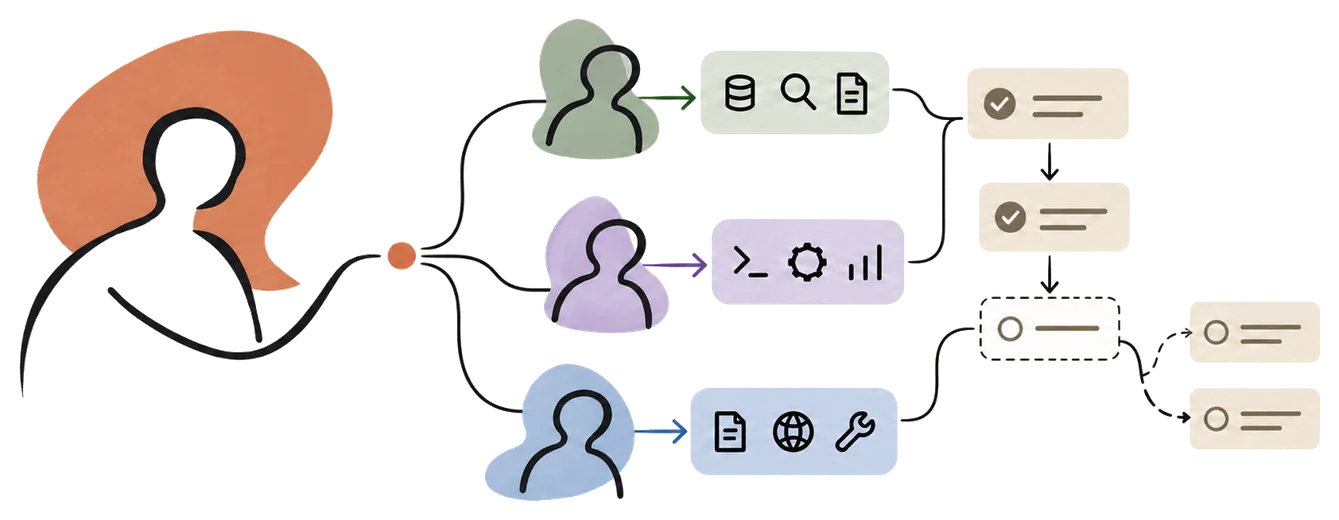
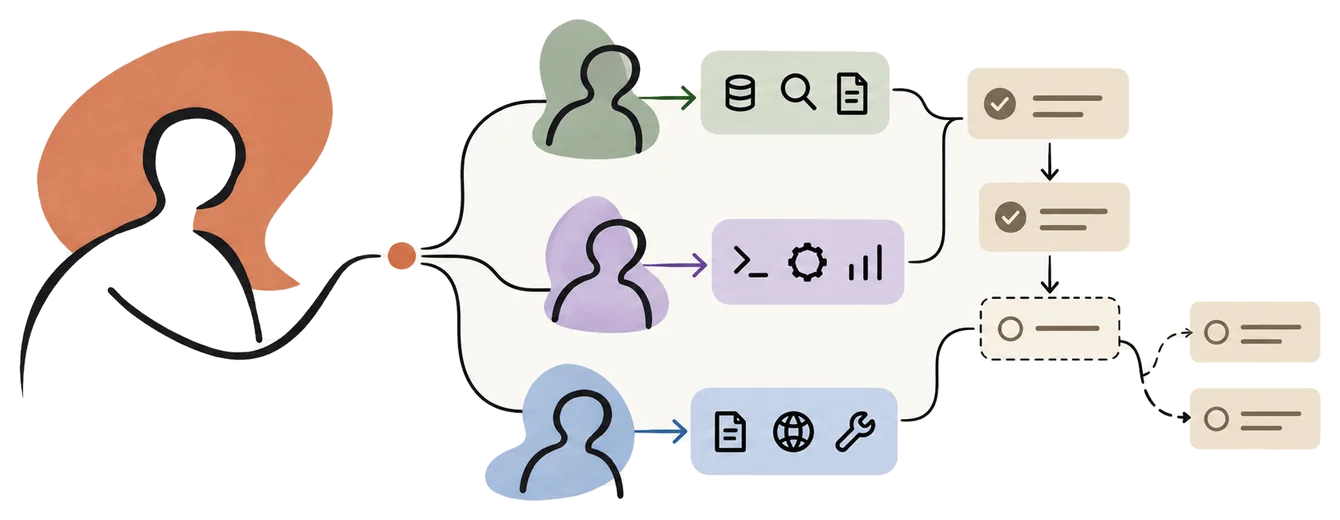
Tab 1: the domain images made again from the originals by make-dark-heroes.py: the light copies keep the pale parts of domains 1 and 5, and the dark copies keep their white boxes solid (owner, 15 October 2026). check-pages prints All checks passed for tab 1
Claude-Session: https://claude.ai/code/session_01UTkgDqrwTLkESy2KzoY348

diff --git a/academy/build/make-dark-heroes.py b/academy/build/make-dark-heroes.py
@@ -1,34 +1,60 @@
-"""Makes the dark-mode copies of the domain images (owner, 15 October 2026): the background outside the drawing becomes
-transparent, and the dark outlines next to it become the cream colour of the text. Run from the root of the repository."""
+"""Makes the web copies of the domain images from the originals of the owner (15 October 2026). Run from the root of the repository.
+
+The background outside the drawing becomes transparent. The outside is the cream background that touches the edge of the image.
+For the light copy, small gaps, such as the gaps of a dashed border, are closed first, so that the inside of a box keeps its fill.
+The dark copy closes no gap, because an area between lines that keeps the cream background shows on the dark page. Each copy is cut to
+the drawing and is 520 pixels high. The dark copy (domain-N-dark.webp) also turns the dark outlines next to the outside into the
+cream colour of the text, for dark mode."""
 from PIL import Image, ImageDraw, ImageFilter
 import numpy as np, os
+
 CREAM = np.array([244, 242, 239], dtype=np.float32)
+GAP = 17   # pixels: a gap narrower than this, such as in a dashed border, does not let the outside in
+# boxes whose white fill is almost the colour of the background: they stay solid in the dark copy (original pixels, x0 y0 x1 y1)
+SOLID = {1: [(1300, 478, 1482, 562)],    # the dashed box of the open step
+         5: [(1176, 526, 1344, 642)]}    # the card "Confidence"
+
+
+def outside_of(a, gap):
+    bg = np.median(np.concatenate([a[:8].reshape(-1, 3), a[-8:].reshape(-1, 3)]), axis=0)
+    near = ((np.abs(a - bg).max(axis=2)) < 14).astype(np.uint8) * 255
+    shrunk = (Image.fromarray(near).filter(ImageFilter.MinFilter(gap)) if gap > 1 else Image.fromarray(near)).copy()   # close the small gaps
+    for xy in [(0, 0), (shrunk.width - 1, 0), (0, shrunk.height - 1), (shrunk.width - 1, shrunk.height - 1)]:
+        if shrunk.getpixel(xy) == 255:
+            ImageDraw.floodfill(shrunk, xy, 128, thresh=0)
+    flooded = (np.array(shrunk) == 128).astype(np.uint8) * 255
+    grown = (np.array(Image.fromarray(flooded).filter(ImageFilter.MaxFilter(gap))) if gap > 1 else flooded) > 0
+    return grown & (near > 0)
+
+
 for i in range(1, 6):
     im = Image.open("academy/pages/images/domains/originals/domain-%d-hero.png" % i).convert("RGB")
     a = np.asarray(im).astype(np.float32)
-    bg = np.median(np.concatenate([a[:8].reshape(-1, 3), a[-8:].reshape(-1, 3)]), axis=0)
-    near = ((np.abs(a - bg).max(axis=2)) < 14).astype(np.uint8) * 255
-    m = Image.fromarray(near).copy()
-    for xy in [(0, 0), (m.width - 1, 0), (0, m.height - 1), (m.width - 1, m.height - 1)]:
-        if m.getpixel(xy) == 255:
-            ImageDraw.floodfill(m, xy, 128, thresh=0)
-    outside = np.array(m) == 128
+    outside = outside_of(a, GAP)
     alpha = np.array(Image.fromarray(np.where(outside, 0, 255).astype(np.uint8)).filter(ImageFilter.GaussianBlur(0.8))).astype(np.float32)
-    mx, mn = a.max(axis=2), a.min(axis=2)
-    light = (mx + mn) / 2 / 255
-    sat = (mx - mn) / 255
-    dark = (light < 0.5) & (sat < 0.3)
-    near_out = np.array(Image.fromarray(outside.astype(np.uint8) * 255).filter(ImageFilter.MaxFilter(9))) > 0
-    recolor = dark & near_out
-    w = np.clip((0.55 - light) / 0.55, 0, 1)[..., None]
-    out = a.copy()
-    out[recolor] = CREAM * w[recolor] + a[recolor] * (1 - w[recolor])
-    rgba = Image.fromarray(np.dstack([out, alpha]).clip(0, 255).astype(np.uint8), "RGBA")
-    light_copy = Image.open("academy/pages/images/domains/domain-%d.webp" % i)
     box = Image.fromarray((~outside).astype(np.uint8) * 255).getbbox()
     pad = 24
     box = (max(0, box[0] - pad), max(0, box[1] - pad), min(im.width, box[2] + pad), min(im.height, box[3] + pad))
-    rgba = rgba.crop(box).resize(light_copy.size, Image.LANCZOS)
-    p = "academy/pages/images/domains/domain-%d-dark.webp" % i
-    rgba.save(p, "WEBP", quality=85, method=6)
-    print(p, rgba.size, os.path.getsize(p) // 1024, "KB", Image.open(p).mode)
+    h = 520
+    size = (round((box[2] - box[0]) * h / (box[3] - box[1])), h)
+    # the light copy: the colours of the original
+    light = Image.fromarray(np.dstack([a, alpha]).clip(0, 255).astype(np.uint8), "RGBA").crop(box).resize(size, Image.LANCZOS)
+    light.save("academy/pages/images/domains/domain-%d.webp" % i, "WEBP", quality=85, method=6)
+    # the dark copy: no gap is closed, so no area between lines keeps the cream background (it would show on the dark page);
+    # specks of one or two pixels in the outside are removed; dark outlines next to the outside become cream
+    outside = outside_of(a, 1)
+    for x0, y0, x1, y1 in SOLID.get(i, []):
+        outside[y0:y1, x0:x1] = False
+    inside = Image.fromarray((~outside).astype(np.uint8) * 255).filter(ImageFilter.MinFilter(3)).filter(ImageFilter.MaxFilter(3))
+    outside = np.array(inside) == 0
+    alpha = np.array(Image.fromarray(np.where(outside, 0, 255).astype(np.uint8)).filter(ImageFilter.GaussianBlur(0.8))).astype(np.float32)
+    mx, mn = a.max(axis=2), a.min(axis=2)
+    lightness, sat = (mx + mn) / 2 / 255, (mx - mn) / 255
+    near_out = np.array(Image.fromarray(outside.astype(np.uint8) * 255).filter(ImageFilter.MaxFilter(9))) > 0
+    recolor = (lightness < 0.5) & (sat < 0.3) & near_out
+    w = np.clip((0.55 - lightness) / 0.55, 0, 1)[..., None]
+    out = a.copy()
+    out[recolor] = CREAM * w[recolor] + a[recolor] * (1 - w[recolor])
+    dark = Image.fromarray(np.dstack([out, alpha]).clip(0, 255).astype(np.uint8), "RGBA").crop(box).resize(size, Image.LANCZOS)
+    dark.save("academy/pages/images/domains/domain-%d-dark.webp" % i, "WEBP", quality=85, method=6)
+    print(i, size, os.path.getsize("academy/pages/images/domains/domain-%d.webp" % i) // 1024, "KB,", os.path.getsize("academy/pages/images/domains/domain-%d-dark.webp" % i) // 1024, "KB")

diff --git a/academy/journal.md b/academy/journal.md
@@ -26,7 +26,7 @@ One entry for each work session. Newest entry first.
 - Tab 1: each of the 15 chips "primary" in Fig. B opens one popup: the guide names 2 or 3 primary domains for each scenario but does not define the word, and the reading of this page is that the questions of the scenario come mainly from these domains (owner, 15 October 2026).
 - Tab 1, Fig. C: the five boxes that run the tools open a popup each, with what that means in practice and a link to the part that teaches it (owner, 15 October 2026).
 - Tab 1: each Overview has the heading "Overview" in the style of the Explanation and the Depth, then the answer in body size, then the title of the guide, small, as "The guide: …". Batch 2 of the notes of the owner is done (owner, 15 October 2026).
-- Tab 1: the hero image of the owner for each domain stands on top of its section, under the heading, at the size of its drawing, at most 15rem high: the web copies are cut to the drawing, 1,400 pixels wide (26 to 32 KB each, in academy/pages/images/domains/), and have no frame. The first version was full width and showed empty space. Now each image stands on the right of the summary of its domain, all at one height (8.5rem), with a transparent background. In dark mode the page shows a dark copy of each image (domain-N-dark.webp, made by academy/build/make-dark-heroes.py), in which the dark outlines next to the background are cream; the first try, white behind the image, looked bad, and on a phone above the summary, and the originals of the owner are in images/domains/originals. Each image has a text alternative, and it is a little darker in dark mode (owner, 15 October 2026).
+- Tab 1: the hero image of the owner for each domain stands on top of its section, under the heading, at the size of its drawing, at most 15rem high: the web copies are cut to the drawing, 1,400 pixels wide (26 to 32 KB each, in academy/pages/images/domains/), and have no frame. The first version was full width and showed empty space. Now each image stands on the right of the summary of its domain, all at one height (8.5rem), with a transparent background. In dark mode the page shows a dark copy of each image (domain-N-dark.webp, made by academy/build/make-dark-heroes.py), in which the dark outlines next to the background are cream; the first try, white behind the image, looked bad. The light copies are now made the same way, with the original colours, because the first light copies lost the pale parts of domains 1 and 5; small gaps such as a dashed border are closed for the light copy, and the dark copy keeps two near-white boxes solid, and on a phone above the summary, and the originals of the owner are in images/domains/originals. Each image has a text alternative, and it is a little darker in dark mode (owner, 15 October 2026).
 - Tab 1: each domain is a section that opens and closes, with a bar for its heading and a large round orange arrow that turns. The domains first started closed. The owner then chose that they start open, so that a part is two clicks away and the images show; the bar and the arrow stay, and a reader can close a domain (owner, 15 October 2026).
 - Tab 1: "How we broke it down" and "Before you start" open and close like the domains, with the same bar and arrow, and start open. "The exam guide on one page" stays as it is, because it is the main part of the page (owner, 15 October 2026).
 - Tab 2, Fig. A: each of the 10 boxes opens a popup: what the step takes in and gives out, one fact of the records, links to the task statements that the step uses, and a link to the step. A click no longer jumps to the step. One switch, FIG_A_POPUPS in make-behind-the-mocks.py, brings back the old figure (owner, 15 October 2026). An independent agent checked the popups and found 2 false sentences (code does not make the ideas, and mocks 2 to 4 marked a sample of 20), now fixed.
